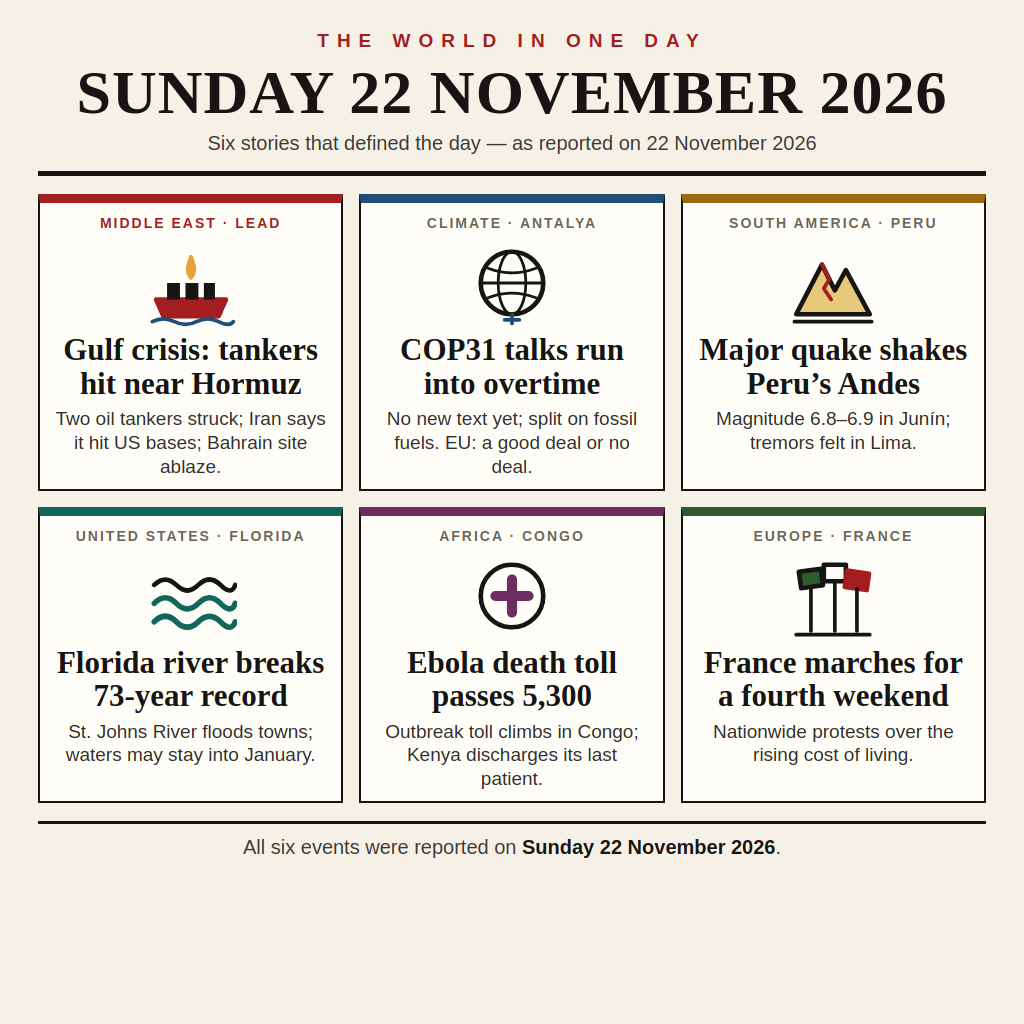
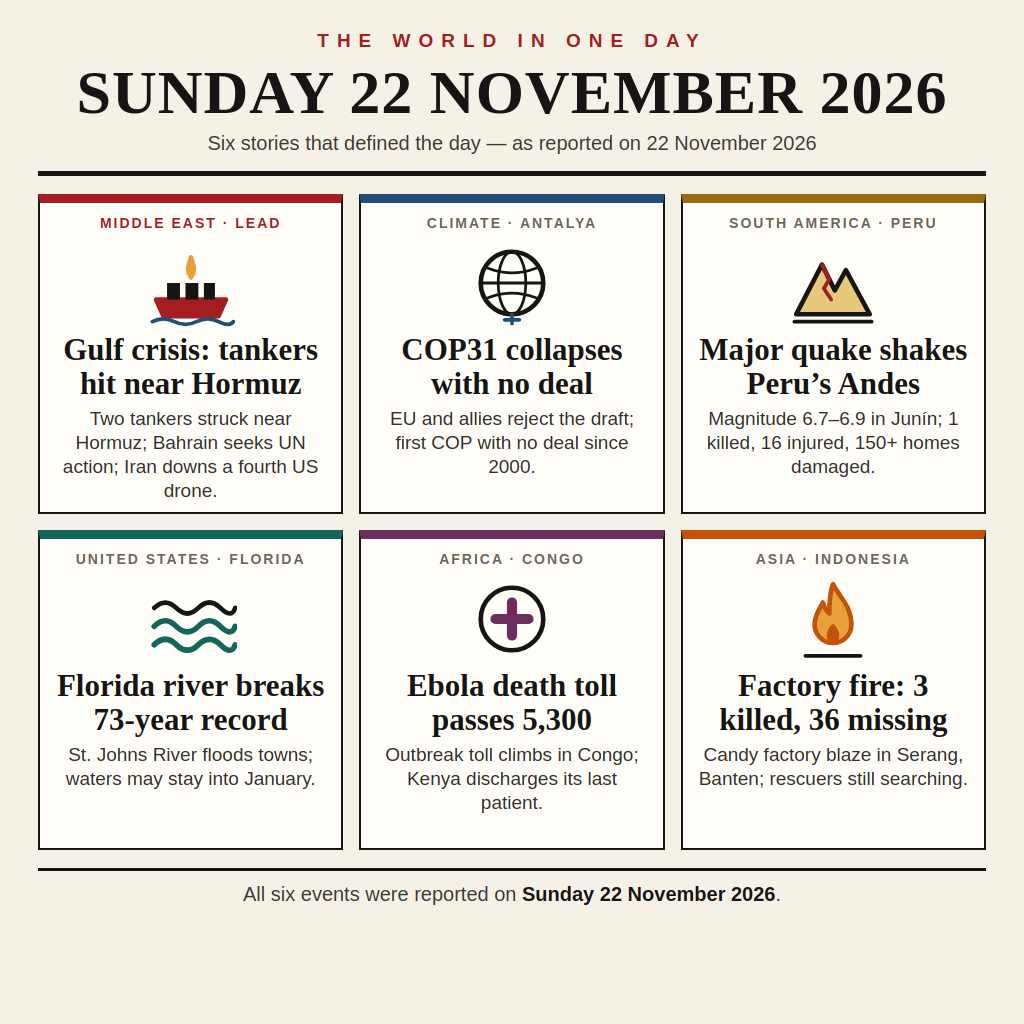
Revise: COP31 collapse, Gulf/Peru Sunday tolls, Serang fire replaces France

Changed region(s): [[0.0312, 0.3125, 0.9688, 0.9062]]

diff --git a/poster.html b/poster.html
@@ -46,6 +46,7 @@
   .cell.c-teal { border-top-color: #14655a; }
   .cell.c-plum { border-top-color: #6d2d5e; }
   .cell.c-forest { border-top-color: #2e5b2e; }
+  .cell.c-ember { border-top-color: #c2540a; }
   .tag {
     font-size: 14px; font-weight: 700; letter-spacing: 2px; white-space: nowrap;
     text-transform: uppercase; color: #6b655c;
@@ -87,7 +88,7 @@
         </svg>
       </div>
       <h2>Gulf crisis: tankers hit near Hormuz</h2>
-      <div class="sub">Two oil tankers struck; Iran says it hit US bases; Bahrain site ablaze.</div>
+      <div class="sub">Two tankers struck near Hormuz; Bahrain seeks UN action; Iran downs a fourth US drone.</div>
     </div>
 
     <div class="cell c-blue">
@@ -102,8 +103,8 @@
           <path d="M50 84 L50 94 M42 90 L58 90" stroke="#1f4e79" stroke-width="4"/>
         </svg>
       </div>
-      <h2>COP31 talks run into overtime</h2>
-      <div class="sub">No new text yet; split on fossil fuels. EU: a good deal or no deal.</div>
+      <h2>COP31 collapses with no deal</h2>
+      <div class="sub">EU and allies reject the draft; first COP with no deal since 2000.</div>
     </div>
 
     <div class="cell c-ochre">
@@ -116,7 +117,7 @@
         </svg>
       </div>
       <h2>Major quake shakes Peru&rsquo;s Andes</h2>
-      <div class="sub">Magnitude 6.8&ndash;6.9 in Jun&iacute;n; tremors felt in Lima.</div>
+      <div class="sub">Magnitude 6.7&ndash;6.9 in Jun&iacute;n; 1 killed, 16 injured, 150+ homes damaged.</div>
     </div>
 
     <div class="cell c-teal">
@@ -144,19 +145,17 @@
       <div class="sub">Outbreak toll climbs in Congo; Kenya discharges its last patient.</div>
     </div>
 
-    <div class="cell c-forest">
-      <div class="tag">Europe &middot; France</div>
+    <div class="cell c-ember">
+      <div class="tag">Asia &middot; Indonesia</div>
       <div class="pic">
         <svg viewBox="0 0 100 100" fill="none" stroke="#161513" stroke-width="5" stroke-linecap="round" stroke-linejoin="round">
-          <rect x="14" y="22" width="24" height="18" fill="#2e5b2e" stroke="#161513" transform="rotate(-8 26 31)"/>
-          <rect x="40" y="16" width="24" height="18" fill="#fffdf7" stroke="#161513"/>
-          <rect x="64" y="24" width="24" height="18" fill="#a31d21" stroke="#a31d21" transform="rotate(8 76 33)"/>
-          <path d="M26 40 V88 M52 34 V88 M76 42 V88" stroke-width="4"/>
-          <path d="M10 92 H90" stroke-width="4"/>
+          <path d="M50 12 C57 26 70 36 70 56 A20 20 0 0 1 30 56 C30 46 35 40 39 32 C41 40 44 42 46 44 C46 34 46 22 50 12 Z" fill="#e8a13a" stroke="#c2540a"/>
+          <path d="M50 58 C55 64 56 70 50 76 C44 70 45 64 50 58 Z" fill="#c2540a" stroke="#c2540a"/>
+          <path d="M20 90 H80" stroke-width="4"/>
         </svg>
       </div>
-      <h2>France marches for a fourth weekend</h2>
-      <div class="sub">Nationwide protests over the rising cost of living.</div>
+      <h2>Factory fire: 3 killed, 36 missing</h2>
+      <div class="sub">Candy factory blaze in Serang, Banten; rescuers still searching.</div>
     </div>
   </div>
 

diff --git a/README.md b/README.md
@@ -14,12 +14,12 @@ make.fun bounty `news-image-20261122`.
 A newspaper front page: the date across the masthead, then six stories from
 six regions and six fields:
 
-1. **Gulf crisis** (Middle East) — tankers hit near the Strait of Hormuz.
-2. **COP31** (Antalya) — climate talks run into overtime, no new text.
-3. **Peru earthquake** (South America) — magnitude 6.8–6.9 in Junín.
+1. **Gulf crisis** (Middle East) — tankers hit near the Strait of Hormuz; Bahrain seeks UN action.
+2. **COP31** (Antalya) — climate talks collapse with no deal; first COP with no deal since 2000.
+3. **Peru earthquake** (South America) — magnitude 6.7–6.9 in Junín; 1 killed, 16 injured, 150+ homes damaged.
 4. **Florida floods** (United States) — St. Johns River breaks a 73-year record.
 5. **Ebola** (Congo) — death toll passes 5,300.
-6. **France protests** (Europe) — fourth weekend of cost-of-living marches.
+6. **Factory fire** (Indonesia) — candy factory blaze in Serang, Banten; 3 killed, 36 missing.
 
 Every event is one of the verified stories of 22 November 2026; nothing is
 invented, and no event from before 13 November 2026 is shown as today's news.
